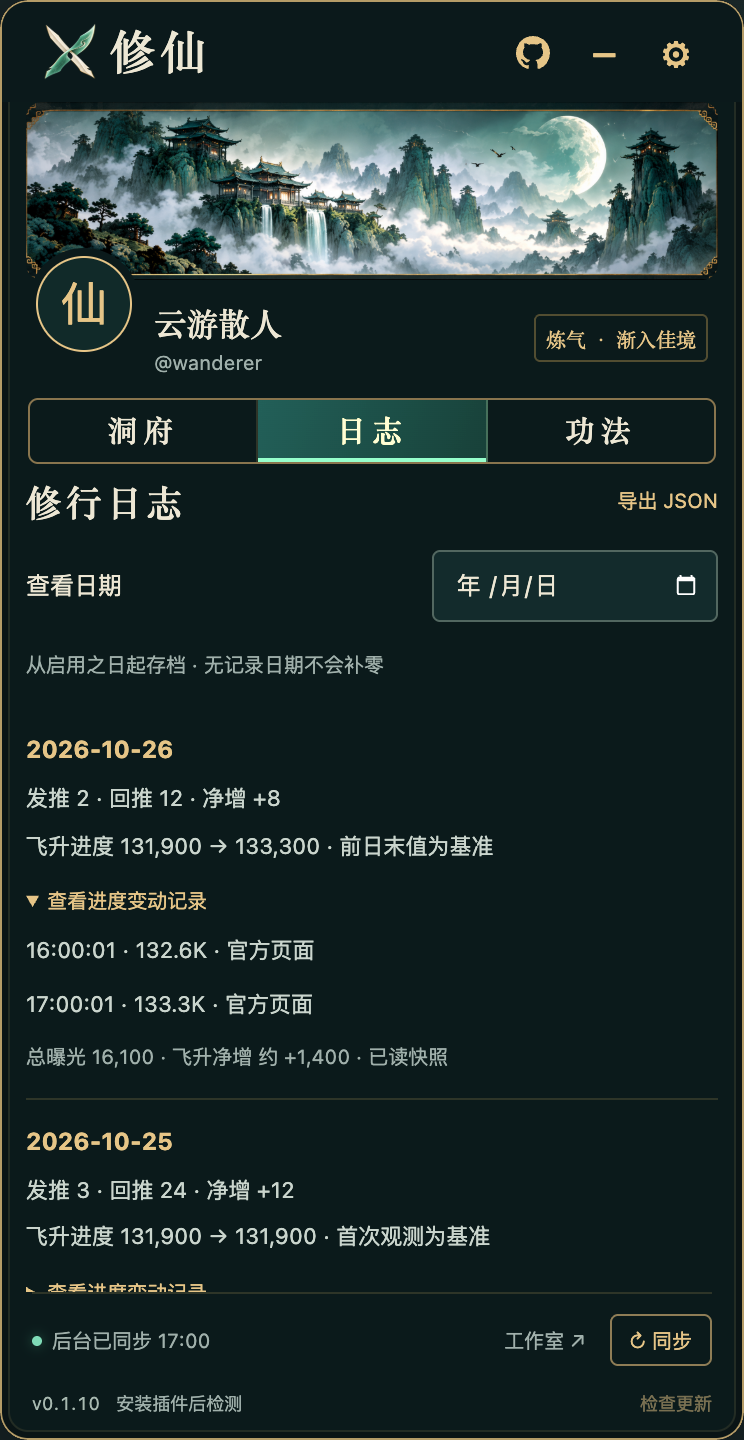
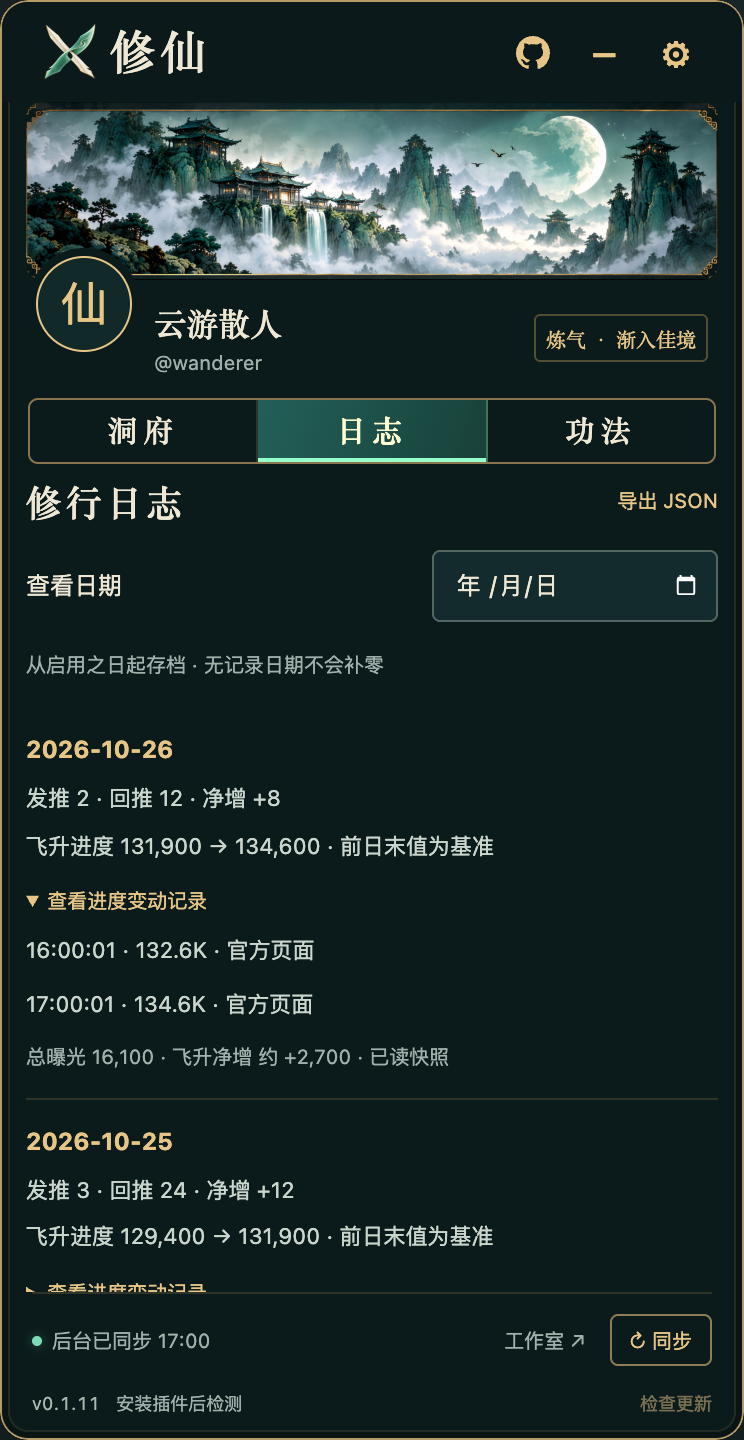
feat: show yesterday reward gain and format progress in W

diff --git a/extension/panel.html b/extension/panel.html
@@ -13,12 +13,12 @@
 <section class="section reminder"><div class="heading"><h2>撰写功法</h2><span id="last-post">上次发推 · 待读取</span></div><div class="reminder-body"><div class="clock"><strong id="countdown">—:—</strong><span id="countdown-label">等待发推记录</span></div><div class="reminder-actions"><a class="jade-button" href="https://x.com/compose/post" target="_blank" rel="noopener">写一篇</a><button id="snooze" class="text-button">稍后 15 分钟</button></div></div></section>
 <section class="section energy"><div class="heading"><h2>天地灵气</h2></div><div class="metrics"><div><span class="metric-label"><i class="spark gold">✦</i> 今日总曝光</span><strong id="total-views" class="gold">—</strong></div></div></section>
 <section class="section companions"><div class="heading"><h2>道侣</h2></div><div class="metrics"><div><span class="metric-label">粉丝总数</span><strong id="followers">—</strong></div><div><span class="metric-label">观测净增</span><strong id="follower-delta" class="jade">—</strong></div></div></section>
-<section class="section ascension"><div class="heading"><h2>飞升进度</h2><span id="reward-percent">—</span></div><progress id="reward-progress" value="0" max="500000" aria-label="50W 曝光总进度"></progress><div class="ascension-total"><span id="qualified90">— / 50W 曝光</span></div></section>
+<section class="section ascension"><div class="heading"><h2>飞升进度</h2><span id="reward-percent">—</span></div><progress id="reward-progress" value="0" max="500000" aria-label="50W 曝光总进度"></progress><div class="ascension-total"><span class="ascension-delta">昨日净增 <b id="reward-yesterday" class="unknown">—</b></span><span id="qualified90">— / 50W 曝光</span></div></section>
 
 
 </section>
 <section id="history" class="view" hidden><div class="heading"><h2>修行日志</h2><button id="export" class="text-button">导出 JSON</button></div><label class="date-filter">查看日期<input id="history-date" type="date"></label><p class="hint">从启用之日起存档 · 无记录日期不会补零</p><div id="history-list" class="history-list"></div><p class="hint">发布和曝光沿用工作室日期；粉丝与飞升净增按本地记录日保存。工作室返回的历史统计可补齐，未返回的时段保留空白。</p></section>
 <section id="settings" class="view" hidden><h2>自定功法</h2><p class="hint">每个账号独立保存，修改后立即生效。</p><form id="settings-form"><label>每日发推目标<input name="posts" type="number" min="1" max="1000" required></label><label>每日回推目标<input name="replies" type="number" min="1" max="10000" required></label><label>发推间隔提醒（分钟）<input name="reminderMinutes" type="number" min="1" max="1440" required></label><label class="check"><input name="reminderEnabled" type="checkbox">开启浏览器修行提醒</label><label class="check"><input name="autoReward" type="checkbox">后台静默同步数据（每 5 分钟）</label><p id="timezone" class="hint">日界线：Asia/Shanghai</p><button class="jade-button" type="submit">保存功法</button></form><div class="setting-note"><p id="followers-hint" class="hint">粉丝净增从今日首次读取开始计算</p><details><summary>查看数据口径</summary><p>发推和回推按工作室日期（UTC）对账；发推为原创与引用发布量之和，回推为自己的回复发布量。发布成功即时记数，每 5 分钟与曝光、粉丝和奖励一起后台同步，用工作室总数校正并补齐其他设备的发布；失败和取消不计。新发布遇到工作室延迟时暂时保留，避免数字立刻回退。天地灵气读取工作室 Account overview 中当天的 Impressions 总曝光，包含认证与未认证用户；工作室没有提供可靠的主推 / 回复曝光拆分，因此只显示总曝光。日期沿用工作室图表的 UTC 日桶，每 5 分钟同步，未读取时保留空白。粉丝净增为今日首次观测后的净变化，无法区分新增和取关。飞升直接读取 X 原创内容奖励页面的近 90 天进度，按最新值减前日最后记录计算每日净增；90 天滚动值含旧曝光到期扣减。页面缩写数值只可计算约数，不代表实际新产生的全部合格曝光。</p><p>发布成功时在后台记录；每 5 分钟由 Chrome 静默读取工作室、奖励页和粉丝资料，临时后台标签不会激活，完成后自动关闭；发推和回复以 X 发布成功的返回记录为准；同一帖子 ID 不重复累加。浏览器运行且 X 登录态有效时可后台同步；已设提醒可由浏览器发出，浏览器关闭时可能延迟。</p></details><h3>飞升规则</h3><p>每日目标是个人计划。X 官方入门门槛包括近 90 天 50 万认证用户主页曝光、500 位认证粉丝；回复曝光不计入。达到这两项也不代表获得收益资格。</p><a href="https://help.x.com/en/using-x/original-content-rewards" target="_blank" rel="noopener">X 官方原创内容奖励说明 ↗</a></div></section>
 <section id="reward" class="view" hidden><h2>记录飞升进境</h2><p class="hint">自动读取失败时，可用官方页面显示的进度校准。手动校准也会触发每日差值记录。</p><form id="reward-form"><label>近 90 天认证用户主页曝光<input name="qualified90d" type="number" min="0" step="1" required></label><label>认证粉丝数量<input name="verifiedFollowers" type="number" min="0" step="1"></label><button class="jade-button" type="submit">保存今日进境</button></form><p class="hint">例如官方显示 133.3K，自动读取会记录为约 133,300，并保存原始显示精度。普通浏览量和全部粉丝总数不可混填。</p></section>
-</main><div id="reminder-alert" class="reminder-alert" role="alertdialog" aria-modal="true" aria-labelledby="reminder-title" hidden><span class="reminder-symbol" aria-hidden="true">✦</span><h2 id="reminder-title">该撰写功法了</h2><p id="reminder-message">修行时间已到，写下你的新想法。</p><a id="reminder-write" class="jade-button" href="https://x.com/compose/post" target="_blank" rel="noopener">去撰写</a><button id="reminder-snooze" class="jade-button">15 分钟后提醒</button><button id="reminder-dismiss" class="text-button">知道了</button></div><footer><span><i id="status-dot"></i><span id="synced">等待账号确认</span></span><div class="footer-actions"><a href="https://x.com/i/account_analytics/overview" target="_blank" rel="noopener" aria-label="查看创作者工作室">工作室 ↗</a><button id="sync" aria-label="立即同步全部数据">↻ 同步</button></div></footer><div id="update-bar" class="update-bar" aria-label="插件版本与更新"><span id="installed-version">v0.1.10</span><span id="update-status" role="status" aria-live="polite">自动检测更新</span><a id="update-download" target="_blank" rel="noopener noreferrer" hidden>下载新版 ↗</a><button id="update-check" class="text-button" type="button">检查更新</button></div>
+</main><div id="reminder-alert" class="reminder-alert" role="alertdialog" aria-modal="true" aria-labelledby="reminder-title" hidden><span class="reminder-symbol" aria-hidden="true">✦</span><h2 id="reminder-title">该撰写功法了</h2><p id="reminder-message">修行时间已到，写下你的新想法。</p><a id="reminder-write" class="jade-button" href="https://x.com/compose/post" target="_blank" rel="noopener">去撰写</a><button id="reminder-snooze" class="jade-button">15 分钟后提醒</button><button id="reminder-dismiss" class="text-button">知道了</button></div><footer><span><i id="status-dot"></i><span id="synced">等待账号确认</span></span><div class="footer-actions"><a href="https://x.com/i/account_analytics/overview" target="_blank" rel="noopener" aria-label="查看创作者工作室">工作室 ↗</a><button id="sync" aria-label="立即同步全部数据">↻ 同步</button></div></footer><div id="update-bar" class="update-bar" aria-label="插件版本与更新"><span id="installed-version">v0.1.11</span><span id="update-status" role="status" aria-live="polite">自动检测更新</span><a id="update-download" target="_blank" rel="noopener noreferrer" hidden>下载新版 ↗</a><button id="update-check" class="text-button" type="button">检查更新</button></div>
 </div><script src="core.js"></script><script src="panel.js"></script></body></html>

diff --git a/extension/panel.js b/extension/panel.js
@@ -9,7 +9,7 @@
   function fitPanel(){cancelAnimationFrame(fitFrame);fitFrame=requestAnimationFrame(()=>{const shell=$('shell'),main=$('scroll'),view=$(tab);if(!shell||!main||!view||shell.hidden)return;const style=getComputedStyle(main);const content=view.getBoundingClientRect().height+parseFloat(style.paddingTop)+parseFloat(style.paddingBottom);const fixed=shell.getBoundingClientRect().height-main.getBoundingClientRect().height;const height=Math.ceil(content+fixed);if(Math.abs(height-lastFitHeight)>1){lastFitHeight=height;tell({type:'resize',height});}});}
   const text=(id,value)=>{const el=$(id);if(el)el.textContent=value;};
   let checkingUpdate=false,updateRequested=false;
-  const installedVersion=globalThis.chrome?.runtime?.getManifest?.().version||'0.1.10';
+  const installedVersion=globalThis.chrome?.runtime?.getManifest?.().version||'0.1.11';
   text('installed-version','v'+installedVersion);
   async function checkUpdates(force=false){
     if(checkingUpdate)return;
@@ -43,7 +43,14 @@
     text('followers-hint',t.followerStart==null?'后台静默读取粉丝总数':`净增基准：${new Date(t.followerStartAt||t.firstSeenAt).toLocaleTimeString('zh-CN',{hour:'2-digit',minute:'2-digit',timeZone:s.timeZone})} 首次观测 · 非全天新增`);
     const r=data.reward;
     setProgress('reward-progress',r?.qualified90d||0,500000);
-    text('qualified90',`${r?.precision>1?'约 ':''}${fmt(r?.qualified90d)} / 50W 曝光`);
+    text('qualified90',`${r?.precision>1?'约 ':''}${r?.qualified90d==null?'—':(r.qualified90d/10000).toFixed(2)+'W'} / 50W 曝光`);
+    const yesterday=new Date(Date.parse(t.date+'T00:00:00Z')-86400000).toISOString().slice(0,10);
+    const track=data.history?.find(row=>row.date===yesterday)?.rewardTrack;
+    const delta=Number.isFinite(track?.delta)?track.delta:null;
+    text('reward-yesterday',delta==null?'—':`${track.approximate?'约 ':''}${delta>=0?'+':''}${fmt(delta)}`);
+    $('reward-yesterday').classList.toggle('negative',delta<0);
+    $('reward-yesterday').classList.toggle('unknown',delta==null);
+    $('reward-yesterday').title=delta==null?`${yesterday} 没有飞升进度记录`:track.partial?`${yesterday} 首次观测后净增，非完整全天`:`${yesterday} 末次进度减前一天末次进度`;
     text('reward-percent',r?.qualified90d!=null?(Math.min(100,r.qualified90d/500000*100).toFixed(1)+'%'):'待读取');
     const sync=data.sync;const syncedAt=sync?.lastCompletedAt;
     text('synced',!s.autoReward?'后台同步已关闭':sync?.running?'后台同步中…':syncedAt?'后台已同步 '+new Date(syncedAt).toLocaleTimeString('zh-CN',{hour:'2-digit',minute:'2-digit',timeZone:s.timeZone})+(sync.complete?'':' · 部分待读取'):sync?.complete===false?'部分数据待读取':'每 5 分钟后台同步');
@@ -81,7 +88,7 @@
     parentOrigin=e.origin==='null'?null:e.origin;const m=e.data;
     if(m.type==='state')render(m.data);
     else if(m.type==='collapsed'){const wasHidden=$('shell').hidden;$('shell').hidden=m.value;$('orb').hidden=!m.value;if(wasHidden&&!m.value){lastFitHeight=0;fitPanel();checkUpdates();}else if(!m.value&&!updateRequested)checkUpdates();}
-    else if(m.type==='locked'){state=null;text('name','静候道友');text('handle','等待 X 登录账号');$('locked').hidden=false;$('avatar').hidden=true;$('avatar').removeAttribute('src');$('avatar-fallback').hidden=false;for(const id of ['total-views','followers','follower-delta'])text(id,'—');text('posts','—');text('replies','—');setProgress('posts-progress',0,3);setProgress('replies-progress',0,20);text('daily-qualified','待读取');text('qualified90','— / 50W 曝光');text('reward-percent','待读取');$('status-dot').classList.remove('active');text('verified-followers','— / 500');setProgress('reward-progress',0,500000);text('synced','等待账号确认');$('history-list').replaceChildren();select('home');for(const id of ['sync','reward-edit','snooze','scan-reward'])if($(id))$(id).disabled=true;timer();}
+    else if(m.type==='locked'){state=null;text('name','静候道友');text('handle','等待 X 登录账号');$('locked').hidden=false;$('avatar').hidden=true;$('avatar').removeAttribute('src');$('avatar-fallback').hidden=false;for(const id of ['total-views','followers','follower-delta'])text(id,'—');text('posts','—');text('replies','—');setProgress('posts-progress',0,3);setProgress('replies-progress',0,20);text('daily-qualified','待读取');text('qualified90','— / 50W 曝光');text('reward-yesterday','—');text('reward-percent','待读取');$('status-dot').classList.remove('active');text('verified-followers','— / 500');setProgress('reward-progress',0,500000);text('synced','等待账号确认');$('history-list').replaceChildren();select('home');for(const id of ['sync','reward-edit','snooze','scan-reward'])if($(id))$(id).disabled=true;timer();}
     else if(m.type==='error')notice(m.error,true);else if(m.type==='notice')notice(m.text);
   });
   document.querySelectorAll('nav button').forEach(b=>b.addEventListener('click',()=>select(b.dataset.tab)));
@@ -96,7 +103,7 @@
   $('reminder-write').onclick=()=>{if(state)state.reminder={...state.reminder,acknowledgedPost:state.lastPost};tell({type:'dismissReminder'});reminderVisible(false,null,0);};
   $('settings-form').onsubmit=e=>{e.preventDefault();if(!state)return notice('请先登录 X 并确认账号。',true);const f=new FormData(e.currentTarget),value={...state.settings};for(const k of ['posts','replies','reminderMinutes','dailyQualifiedGoal'])if(f.has(k))value[k]=Number(f.get(k));value.reminderEnabled=e.currentTarget.elements.reminderEnabled.checked;value.autoReward=e.currentTarget.elements.autoReward.checked;tell({type:'settings',value});};
   $('reward-form').onsubmit=e=>{e.preventDefault();if(!state)return;const f=new FormData(e.currentTarget);const value=Object.fromEntries(['qualified90d','verifiedFollowers'].map(k=>[k,f.get(k)===''?null:Number(f.get(k))]));tell({type:'reward',value});select('home');};
-  $('export').onclick=()=>{if(!state)return;const blob=new Blob([JSON.stringify({app:'X 修仙',version:'0.1.10',exportedAt:new Date().toISOString(),...state},null,2)],{type:'application/json'});const url=URL.createObjectURL(blob);const a=document.createElement('a');a.href=url;a.download=`X修仙-${state.profile.handle}-${state.today.date}.json`;a.click();setTimeout(()=>URL.revokeObjectURL(url),3000);};
+  $('export').onclick=()=>{if(!state)return;const blob=new Blob([JSON.stringify({app:'X 修仙',version:'0.1.11',exportedAt:new Date().toISOString(),...state},null,2)],{type:'application/json'});const url=URL.createObjectURL(blob);const a=document.createElement('a');a.href=url;a.download=`X修仙-${state.profile.handle}-${state.today.date}.json`;a.click();setTimeout(()=>URL.revokeObjectURL(url),3000);};
   function draggable(element,isOrb=false){let start=null,moved=false;element.addEventListener('pointerdown',e=>{if(e.target.closest('button,a')&&!isOrb)return;if(e.button!==0)return;start={x:e.screenX,y:e.screenY};moved=false;element.setPointerCapture(e.pointerId);tell({type:'drag-start',screenX:e.screenX,screenY:e.screenY});});element.addEventListener('pointermove',e=>{if(!start)return;if(Math.abs(e.screenX-start.x)+Math.abs(e.screenY-start.y)>4)moved=true;tell({type:'drag-move',screenX:e.screenX,screenY:e.screenY});});const end=()=>{if(!start)return;start=null;tell({type:'drag-end'});};element.addEventListener('pointerup',()=>{end();if(isOrb&&!moved)tell({type:'toggle'});});element.addEventListener('pointercancel',end);element.addEventListener('lostpointercapture',end);element.addEventListener('keydown',e=>{const d={ArrowLeft:[-10,0],ArrowRight:[10,0],ArrowUp:[0,-10],ArrowDown:[0,10]}[e.key];if(d){e.preventDefault();tell({type:'move-key',dx:d[0],dy:d[1]});}else if(isOrb&&(e.key==='Enter'||e.key===' ')){e.preventDefault();tell({type:'toggle'});}});}
   draggable($('drag'));draggable($('orb'),true);$('avatar').onerror=()=>{$('avatar').hidden=true;$('avatar-fallback').hidden=false;};
   setInterval(timer,1000);setInterval(()=>{if(!document.hidden&&!$('shell').hidden)checkUpdates();},60*60*1000);

diff --git a/extension/demo.js b/extension/demo.js
@@ -9,7 +9,7 @@
   for(let i=0;i<12;i++)payload.tweets.push({id:String(200+i),author:'wanderer',authorId:'123',at:last-i*1000,reply:true,views:i===0?510:250});
   C.ingest(a,payload,now-60000);C.ingest(a,{users:[{handle:'wanderer',name:'云游散人',followers:1280}]},now);
   a.days[C.day(now-86400000,zone)]={date:C.day(now-86400000,zone),posts:3,replies:24,postViews:18420,replyViews:6028,followerDelta:12};
-  C.recordReward(a,{qualified90d:131900,raw:'131.9K',precision:100,source:'official-page'},now-86400000);C.recordReward(a,{qualified90d:132600,raw:'132.6K',precision:100,source:'official-page'},now-3600000);C.recordReward(a,{qualified90d:133300,raw:'133.3K',precision:100,source:'official-page'},now);
+  C.recordReward(a,{qualified90d:129400,raw:'129.4K',precision:100,source:'official-page'},now-2*86400000);C.recordReward(a,{qualified90d:131900,raw:'131.9K',precision:100,source:'official-page'},now-86400000);C.recordReward(a,{qualified90d:132600,raw:'132.6K',precision:100,source:'official-page'},now-3600000);C.recordReward(a,{qualified90d:134600,raw:'134.6K',precision:100,source:'official-page'},now);
   C.recordStudio(a,{date:today,taskTimeZone:'UTC',posts:2,replies:12,postViews:12840,replyViews:3260,totalViews:16100},now);
   a.sync={running:false,complete:true,at:now,lastCompletedAt:now};
   const send=m=>frame.contentWindow.postMessage({source:'xian-parent-v1',...m},location.origin);let drag=null,collapsed=false;

diff --git a/extension/panel.css b/extension/panel.css
@@ -21,6 +21,7 @@ html,body{width:100%;height:100%;margin:0;overflow:hidden}
 .orb:focus-visible{outline:2px solid var(--jade);outline-offset:-3px}
 
 .brand .title-x{display:block;width:30px;height:30px;object-fit:contain;flex-shrink:0;pointer-events:none}
+.ascension-total{justify-content:space-between;align-items:center;gap:4px 10px;flex-wrap:wrap}.ascension-total>span{white-space:nowrap}.ascension-delta{color:var(--muted);font-size:10px}.ascension-delta b{font-weight:500;color:var(--jade);font-variant-numeric:tabular-nums}.ascension-delta b.negative{color:#dca083}.ascension-delta b.unknown{color:var(--muted)}
 
 /* Author link and quiet update status keep fixed dimensions in every state. */
 .tools{flex-shrink:0}.tools .author-github{width:28px;height:28px;display:grid;place-items:center;color:var(--gold);border-radius:5px;cursor:pointer}.author-github svg{display:block;width:17px;height:17px;fill:currentColor}.tools .author-github:hover{background:#e6c58712;text-decoration:none}.tools .author-github:focus-visible{outline:2px solid var(--jade)}

diff --git a/README.en.md b/README.en.md
@@ -5,7 +5,7 @@
   <h1>X Xiuxian · Creator Retreat</h1>
   <p>A movable cultivation-inspired dashboard for your daily writing and X creator stats.</p>
   <p>
-    <img src="https://img.shields.io/badge/version-0.1.10-173e34" alt="Version 0.1.10">
+    <img src="https://img.shields.io/badge/version-0.1.11-173e34" alt="Version 0.1.11">
     <img src="https://img.shields.io/badge/Chrome-116%2B-4285F4?logo=googlechrome&logoColor=white" alt="Chrome 116+">
     <img src="https://img.shields.io/badge/Manifest-V3-6d7772" alt="Manifest V3">
     <img src="https://img.shields.io/badge/Data-Local_storage-173e34" alt="Local data storage">
@@ -30,7 +30,7 @@ No API key and no build step. Read the X account signed in to your browser, set 
 | Writing reminder | Time since your last post, a configurable countdown and a persistent alert with write, snooze and acknowledge actions |
 | Impressions | Today's total studio Impressions, including verified and unverified viewers |
 | Followers | Total followers and net change since the day's first observation |
-| Ascension progress | A 500K progress bar for verified home-timeline impressions over the last 90 days, with daily net changes and individual readings |
+| Ascension progress | A 500K progress bar for verified home-timeline impressions over the last 90 days, displayed as 13.46W / 50W (W = 10,000), with yesterday’s net change on the home view and daily readings in history |
 | Background sync | Rewards → account analytics → follower profile, using an inactive temporary tab; manual sync is available in the footer |
 | History | Daily records, date filtering, reward and count adjustments, and JSON export |
 | Project GitHub | Open the X Xiuxian repository from the GitHub icon in the header |
@@ -55,7 +55,7 @@ The panoramic landscape preserves the full composition, with the avatar overlapp
 
 Install as an unpacked Chrome extension. It is not currently listed in the Chrome Web Store.
 
-1. Open [Releases](https://github.com/zkilxx/x-xiuxian/releases/latest), download **`x-xiuxian-v0.1.10.zip`** and extract it.
+1. Open [Releases](https://github.com/zkilxx/x-xiuxian/releases/latest), download **`x-xiuxian-v0.1.11.zip`** and extract it.
 2. Open `chrome://extensions` and turn on **Developer mode**.
 3. Click **Load unpacked** and select the extracted **X修仙** folder containing `manifest.json`.
 4. Sign in to [X](https://x.com) and refresh the page to display the floating panel.
@@ -121,6 +121,8 @@ System notifications depend on Chrome and operating-system settings. Closing the
 
 ### View history and daily changes
 
+The home view shows yesterday’s recorded reward change. Missing yesterday data appears as “—”; partial readings are explained in a tooltip.
+
 Open **日志** to filter dates, expand reward readings or count adjustments, and click **导出 JSON** to export the current account's records and settings.
 
 - **Publishing and impressions** follow the studio's **UTC dates**.
@@ -163,7 +165,7 @@ Core development requires Node.js 20+ and Python 3. The extension uses plain Jav
 npm test                # Data, publishing events and background flow tests
 npm run check           # Rebuild; verify scripts, manifest and assets
 npm run preview         # http://127.0.0.1:4178/demo.html
-npm run package         # release/x-xiuxian-v0.1.10.zip
+npm run package         # release/x-xiuxian-v0.1.11.zip
 ```
 
 All **40 regression tests pass**. Coverage includes account isolation, deduplication, successful and failed publishing, UTC boundaries, impression backfill, publishing reconciliation, lag protection, downward corrections, reward deltas, follower changes, background jobs and reminders. Tests use simulated responses; they do not establish live compatibility after every X update.

diff --git a/README.md b/README.md
@@ -5,7 +5,7 @@
   <h1>X 修仙 · 创作者洞府</h1>
   <p>在 X 页面里，把每日创作、交流与数据增长，收进一座修仙洞府。</p>
   <p>
-    <img src="https://img.shields.io/badge/version-0.1.10-173e34" alt="Version 0.1.10">
+    <img src="https://img.shields.io/badge/version-0.1.11-173e34" alt="Version 0.1.11">
     <img src="https://img.shields.io/badge/Chrome-116%2B-4285F4?logo=googlechrome&logoColor=white" alt="Chrome 116+">
     <img src="https://img.shields.io/badge/Manifest-V3-6d7772" alt="Manifest V3">
     <img src="https://img.shields.io/badge/数据-本机保存-173e34" alt="数据本机保存">
@@ -30,7 +30,7 @@
 | 撰写功法 | 显示距离上次发推的时间与提醒倒计时，到时持续提醒，可去撰写、稍后 15 分钟或确认 |
 | 天地灵气 | 显示工作室当天 Impressions 总曝光，包含认证与未认证用户 |
 | 道侣 | 粉丝总数、当天首次观测后的净变化 |
-| 飞升进度 | 近 90 天认证用户主页曝光的 50W 总进度条，记录每日净增及每次数值变动 |
+| 飞升进度 | 近 90 天认证用户主页曝光的 50W 总进度条，以 13.46W / 50W 形式显示，首页展示昨日净增；日志保存每日净增及每次数值变动 |
 | 后台同步 | 奖励 → 工作室分析 → 粉丝资料依次静默读取；不切换当前标签，底部可手动提前同步 |
 | 修行日志 | 查看每天的任务、曝光、粉丝与奖励记录，支持日期筛选、变动明细及 JSON 导出 |
 | 项目 GitHub | 右上角 GitHub 按钮直达 X 修仙项目仓库 |
@@ -55,7 +55,7 @@
 
 目前通过 Chrome 的「加载已解压的扩展程序」安装，尚未上架 Chrome 应用商店。
 
-1. 前往 [Releases](https://github.com/zkilxx/x-xiuxian/releases/latest)，下载 **`x-xiuxian-v0.1.10.zip`** 并解压。
+1. 前往 [Releases](https://github.com/zkilxx/x-xiuxian/releases/latest)，下载 **`x-xiuxian-v0.1.11.zip`** 并解压。
 2. 在 Chrome 地址栏输入 `chrome://extensions`，开启右上角「开发者模式」。
 3. 点击「加载已解压的扩展程序」，选择解压后的 **X修仙** 文件夹，里面应有 `manifest.json`。
 4. 打开并登录 [X](https://x.com)，刷新页面，即可看到悬浮洞府。
@@ -121,6 +121,8 @@ Release 同时提供 `SHA256SUMS.txt`，供校验安装包。
 
 ### 查看历史与每日净增
 
+首页飞升卡片的「昨日净增」读取昨天的已存记录；昨天没有记录时显示「—」，首次观测后的不完整增量会在提示中说明。
+
 「日志」可筛选日期，展开飞升进度变动或修行校正记录，点击「导出 JSON」保存当前账号的记录与设置。
 
 - **发布数与曝光**沿用工作室 **UTC 日期**。
@@ -163,7 +165,7 @@ Release 同时提供 `SHA256SUMS.txt`，供校验安装包。
 npm test                # 数据、发布事件与后台流程测试
 npm run check           # 重新构建，检查脚本、清单与资源
 npm run preview         # http://127.0.0.1:4178/demo.html
-npm run package         # release/x-xiuxian-v0.1.10.zip
+npm run package         # release/x-xiuxian-v0.1.11.zip
 ```
 
 当前 **40 项回归测试通过**，覆盖账号隔离、事件去重、成功 / 失败发布、工作室日期与曝光回填、发推回推对账、延迟保护、官方向下校正、奖励净增、粉丝净变、后台任务与提醒。测试使用模拟响应，不代表每次 X 页面更新后的线上行为均已实测。
